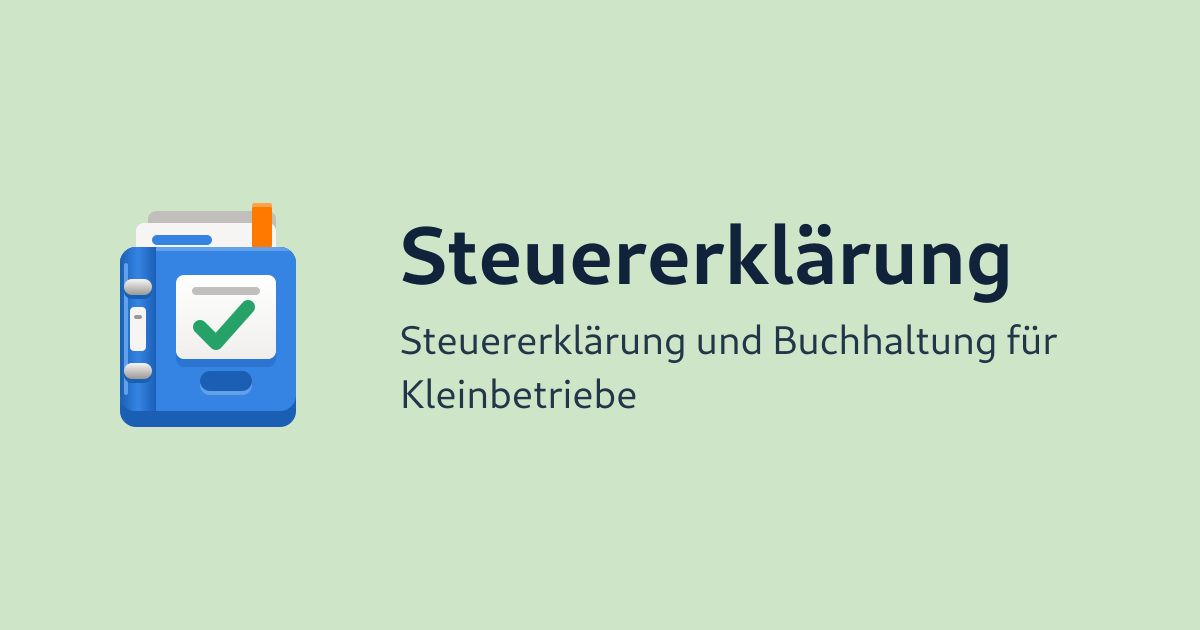
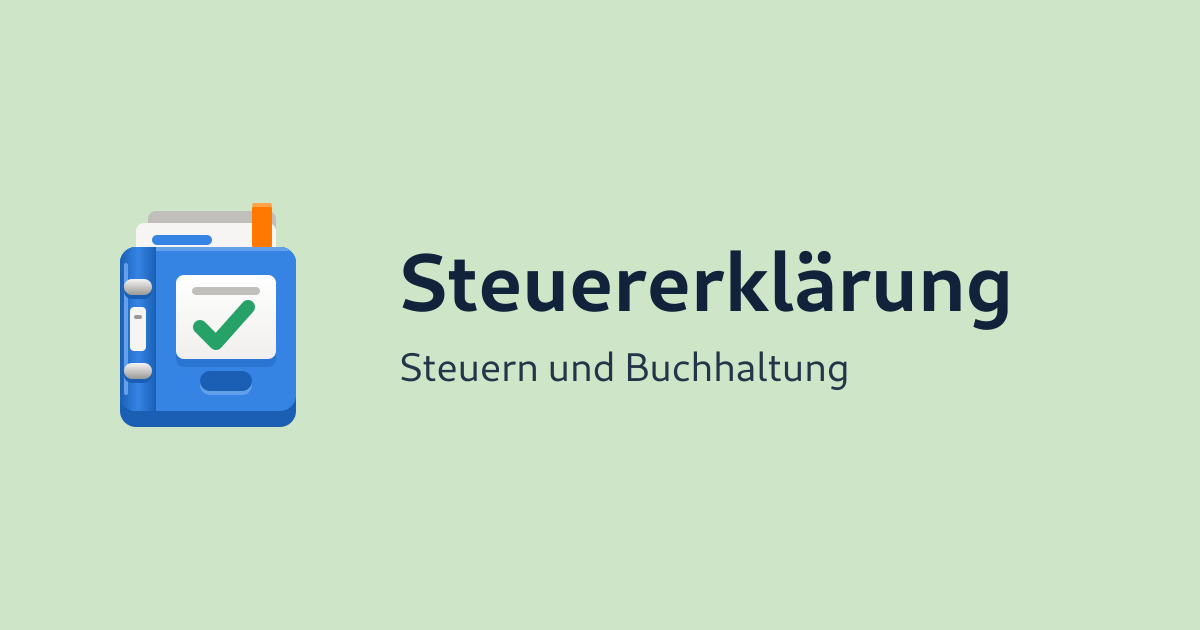
Deploying to gh-pages from @ JumpLink/steuererklaerung@c30ba329a9ad6679b6f6bf956346619117bd01e5 🚀

Changed region(s): [[0.3083, 0.3317, 0.8942, 0.6635]]

diff --git a/de/index.html b/de/index.html
@@ -3,14 +3,14 @@
 <head>
 <meta charset="utf-8">
 <meta name="viewport" content="width=device-width, initial-scale=1">
-<title>Steuererklärung – Steuererklärung und Buchhaltung für Kleinbetriebe</title>
+<title>Steuererklärung – Steuern und Buchhaltung</title>
 <meta name="description" content="Belege, Buchungen und Rechnungen an einem Ort. Daraus berechnet die App die Einnahmenüberschussrechnung (EÜR), die Umsatzsteuererklärungen, die Gewerbesteuer…">
 <link rel="canonical" href="https://jumplink.eu/steuererklaerung/de/">
 <link rel="alternate" hreflang="de" href="https://jumplink.eu/steuererklaerung/de/">
 <link rel="alternate" hreflang="en" href="https://jumplink.eu/steuererklaerung/en/">
 <link rel="alternate" hreflang="x-default" href="https://jumplink.eu/steuererklaerung/de/">
 <meta property="og:type" content="website">
-<meta property="og:title" content="Steuererklärung – Steuererklärung und Buchhaltung für Kleinbetriebe">
+<meta property="og:title" content="Steuererklärung – Steuern und Buchhaltung">
 <meta property="og:description" content="Belege, Buchungen und Rechnungen an einem Ort. Daraus berechnet die App die Einnahmenüberschussrechnung (EÜR), die Umsatzsteuererklärungen, die Gewerbesteuer…">
 <meta property="og:url" content="https://jumplink.eu/steuererklaerung/de/">
 <meta property="og:site_name" content="Steuererklärung">
@@ -21,7 +21,7 @@
 <meta property="og:image:height" content="630">
 <meta property="og:image:alt" content="Steuererklärung">
 <meta name="twitter:card" content="summary_large_image">
-<meta name="twitter:title" content="Steuererklärung – Steuererklärung und Buchhaltung für Kleinbetriebe">
+<meta name="twitter:title" content="Steuererklärung – Steuern und Buchhaltung">
 <meta name="twitter:description" content="Belege, Buchungen und Rechnungen an einem Ort. Daraus berechnet die App die Einnahmenüberschussrechnung (EÜR), die Umsatzsteuererklärungen, die Gewerbesteuer…">
 <meta name="twitter:image" content="https://jumplink.eu/steuererklaerung/og-de.png">
 <meta name="theme-color" content="#cfe5c8" media="(prefers-color-scheme: light)">
@@ -161,13 +161,25 @@
 <main>
 <div class="column">
 <section class="about">
-<h2>Steuererklärung und Buchhaltung für Kleinbetriebe</h2>
+<h2>Steuern und Buchhaltung</h2>
 <p>Belege, Buchungen und Rechnungen an einem Ort. Daraus berechnet die App die Einnahmenüberschussrechnung (EÜR), die Umsatzsteuererklärungen, die Gewerbesteuer und die gesonderte Feststellung für Personengesellschaften und übermittelt sie über ELSTER.</p>
 <p>Sie läuft auf deinem Rechner: Bankdaten und Belege bleiben in einem lokalen Speicher. Jede Zahl lässt sich bis zur Buchung zurückverfolgen.</p>
 <p>Sie ist ohne KI vollständig bedienbar: Du schreibst eigene Klassifizierungsregeln, statt ein Modell raten zu lassen. Ein Assistent ist optional und standardmäßig aus.</p>
 <p>Die Steuerlogik folgt deutschem Recht, deshalb behält die Oberfläche die amtlichen deutschen Begriffe. Die App ist eine Vorbereitungshilfe, keine Steuerberatung.</p>
 </section>
+<section class="releases">
+<release-notes class="card release" data-more="Mehr anzeigen" data-less="Weniger anzeigen">
+<div class="release-head">
+<h2>Änderungen in Version 0.1.0</h2>
+<p class="date-pill"><time datetime="2026-10-12">12. Oktober 2026</time></p>
+</div>
+<div class="release-body">
+<p>Erste öffentliche Version: Belege, Buchungen und Rechnungen, EÜR und Umsatzsteuererklärungen sowie die Übermittlung über ELSTER.</p>
+</div>
+<button class="release-more" type="button" hidden>Mehr anzeigen</button>
+</release-notes>
 
+</section>
 <section class="support">
 <a class="button support-cta" href="/steuererklaerung/de/support/"><svg class="icon" viewBox="0 0 16 16" width="16" height="16" fill="currentColor" aria-hidden="true"><path fill="none" stroke="currentColor" stroke-width="1.4" stroke-linecap="round" stroke-linejoin="round" d="M8 13.6 3.1 8.5a3.2 3.2 0 1 1 4.5-4.5l.4.4.4-.4a3.2 3.2 0 1 1 4.5 4.5L8 13.6Z"/></svg><span>Dieses Projekt unterstützen</span></a>
 </section>

diff --git a/en/index.html b/en/index.html
@@ -3,14 +3,14 @@
 <head>
 <meta charset="utf-8">
 <meta name="viewport" content="width=device-width, initial-scale=1">
-<title>Steuererklärung – Tax return and bookkeeping for small businesses</title>
+<title>Steuererklärung – Taxes and bookkeeping</title>
 <meta name="description" content="Receipts, transactions and invoices in one place. From them the app computes the income-surplus statement (EÜR), the VAT returns, trade tax and the separate…">
 <link rel="canonical" href="https://jumplink.eu/steuererklaerung/en/">
 <link rel="alternate" hreflang="de" href="https://jumplink.eu/steuererklaerung/de/">
 <link rel="alternate" hreflang="en" href="https://jumplink.eu/steuererklaerung/en/">
 <link rel="alternate" hreflang="x-default" href="https://jumplink.eu/steuererklaerung/de/">
 <meta property="og:type" content="website">
-<meta property="og:title" content="Steuererklärung – Tax return and bookkeeping for small businesses">
+<meta property="og:title" content="Steuererklärung – Taxes and bookkeeping">
 <meta property="og:description" content="Receipts, transactions and invoices in one place. From them the app computes the income-surplus statement (EÜR), the VAT returns, trade tax and the separate…">
 <meta property="og:url" content="https://jumplink.eu/steuererklaerung/en/">
 <meta property="og:site_name" content="Steuererklärung">
@@ -21,7 +21,7 @@
 <meta property="og:image:height" content="630">
 <meta property="og:image:alt" content="Steuererklärung">
 <meta name="twitter:card" content="summary_large_image">
-<meta name="twitter:title" content="Steuererklärung – Tax return and bookkeeping for small businesses">
+<meta name="twitter:title" content="Steuererklärung – Taxes and bookkeeping">
 <meta name="twitter:description" content="Receipts, transactions and invoices in one place. From them the app computes the income-surplus statement (EÜR), the VAT returns, trade tax and the separate…">
 <meta name="twitter:image" content="https://jumplink.eu/steuererklaerung/og-en.png">
 <meta name="theme-color" content="#cfe5c8" media="(prefers-color-scheme: light)">
@@ -161,13 +161,25 @@
 <main>
 <div class="column">
 <section class="about">
-<h2>Tax return and bookkeeping for small businesses</h2>
+<h2>Taxes and bookkeeping</h2>
 <p>Receipts, transactions and invoices in one place. From them the app computes the income-surplus statement (EÜR), the VAT returns, trade tax and the separate assessment for partnerships, and files them through ELSTER.</p>
 <p>It runs on your machine: your bank data and documents stay in a local store. Every figure can be traced back to the transaction it came from.</p>
 <p>It works fully without AI: you write your own classification rules instead of letting a model guess. An assistant is optional and off by default.</p>
 <p>The tax logic follows German law, so the interface keeps the official German terms. The app is a preparation aid, not tax advice.</p>
 </section>
+<section class="releases">
+<release-notes class="card release" data-more="Show more" data-less="Show less">
+<div class="release-head">
+<h2>Changes in version 0.1.0</h2>
+<p class="date-pill"><time datetime="2026-10-12">October 12, 2026</time></p>
+</div>
+<div class="release-body">
+<p>First public release: receipts, transactions and invoices, the EÜR and VAT returns, and filing through ELSTER.</p>
+</div>
+<button class="release-more" type="button" hidden>Show more</button>
+</release-notes>
 
+</section>
 <section class="support">
 <a class="button support-cta" href="/steuererklaerung/en/support/"><svg class="icon" viewBox="0 0 16 16" width="16" height="16" fill="currentColor" aria-hidden="true"><path fill="none" stroke="currentColor" stroke-width="1.4" stroke-linecap="round" stroke-linejoin="round" d="M8 13.6 3.1 8.5a3.2 3.2 0 1 1 4.5-4.5l.4.4.4-.4a3.2 3.2 0 1 1 4.5 4.5L8 13.6Z"/></svg><span>Support this project</span></a>
 </section>
